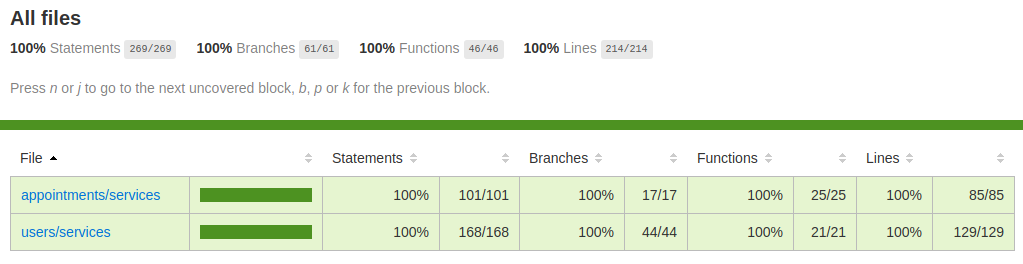
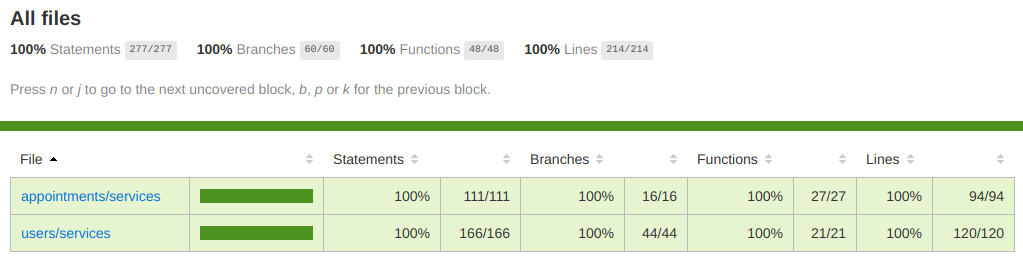
fix tests and test environment

diff --git a/src/modules/appointments/services/ListProvidersService.spec.ts b/src/modules/appointments/services/ListProvidersService.spec.ts
@@ -14,13 +14,13 @@ describe('ListProviders', () => {
   })
 
   it('should be able to list the providers', async () => {
-    const { password: _, ...provider1 } = await fakeUsersRepository.create({
+    const provider1 = await fakeUsersRepository.create({
       name: 'Gobarber Provider1',
       email: 'provider1@gobarber.com',
       password: '123456',
     })
 
-    const { password: __, ...provider2 } = await fakeUsersRepository.create({
+    const provider2 = await fakeUsersRepository.create({
       name: 'Gobarber Provider2',
       email: 'provider2@gobarber.com',
       password: '123456',
@@ -32,7 +32,9 @@ describe('ListProviders', () => {
       password: '123456',
     })
 
-    const providers = await listProviders.execute({ user_id: loggedUser.id })
+    const providers = await listProviders.execute({
+      except_user_id: loggedUser.id,
+    })
 
     expect(providers).toEqual([provider1, provider2])
   })

diff --git a/src/modules/appointments/services/ListProviderMonthAvailabilityService.spec.ts b/src/modules/appointments/services/ListProviderMonthAvailabilityService.spec.ts
@@ -16,6 +16,10 @@ describe('ListProviderMonthAvailability', () => {
   })
 
   it('should be able to list the month availability of a provider', async () => {
+    jest
+      .spyOn(Date, 'now')
+      .mockImplementation(() => new Date(2020, 3, 20).getTime())
+
     const hours = Array.from({ length: 18 - 8 }, (value, index) => index + 8)
 
     const appointmentCreationPromises = hours.map((hour) =>

diff --git a/jest.config.js b/jest.config.js
@@ -121,7 +121,7 @@ module.exports = {
   // runner: "jest-runner",
 
   // The paths to modules that run some code to configure or set up the testing environment before each test
-  // setupFiles: [],
+  setupFiles: ['<rootDir>/jestDotEnv.js'],
 
   // A list of paths to modules that run some code to configure or set up the testing framework before each test
   // setupFilesAfterEnv: [],

diff --git a/src/modules/appointments/services/ListProviderAppointmentsService.spec.ts b/src/modules/appointments/services/ListProviderAppointmentsService.spec.ts
@@ -32,7 +32,7 @@ describe('ListProviderAppointments', () => {
 
     jest
       .spyOn(Date, 'now')
-      .mockImplementationOnce(() => new Date(2020, 4, 10, 12).getTime())
+      .mockImplementation(() => new Date(2020, 4, 10, 12).getTime())
 
     appointments.push(
       await createAppointment.execute({

diff --git a/jestDotEnv.js b/jestDotEnv.js
@@ -1,0 +1,6 @@
+/* eslint-disable @typescript-eslint/no-var-requires */
+
+const path = require('path')
+require('dotenv-safe').config({
+  path: path.resolve(__dirname, '.env.test'),
+})
